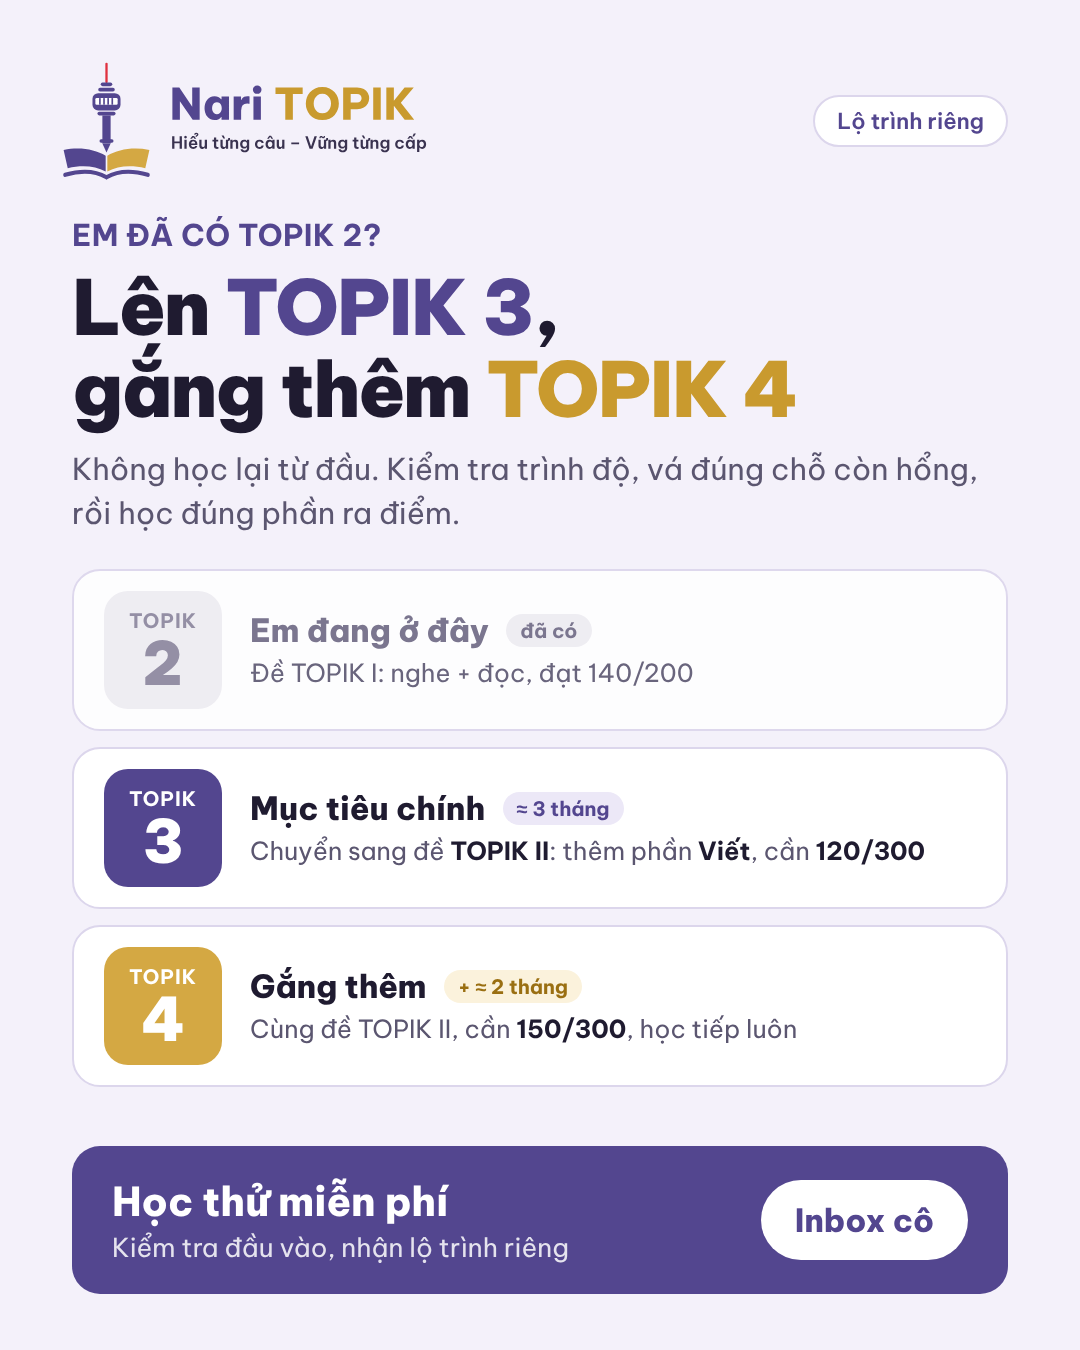
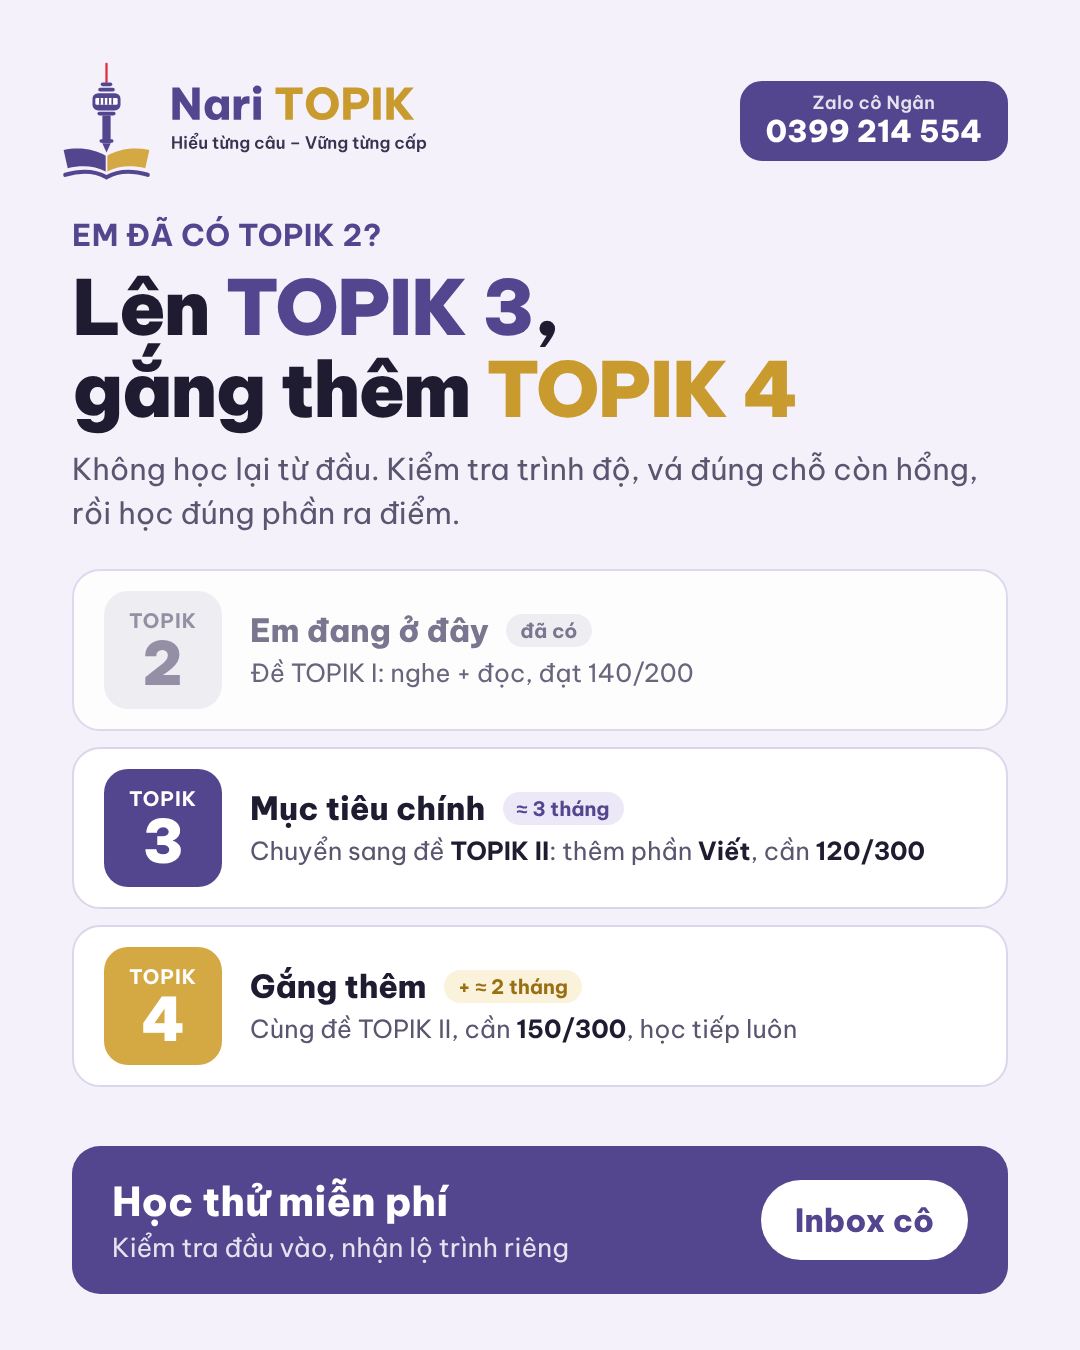
Ảnh đấu giá: thêm Zalo cô ở mọi ảnh, ảnh vuông chung để comment
Claude-Session: https://claude.ai/code/session_01A7std5QnVTsaBQGEk65z9a

Changed region(s): [[0.6722, 0.0622, 0.9472, 0.1244]]

diff --git a/quang-cao/topik2-len-3-4/0-comment.html b/quang-cao/topik2-len-3-4/0-comment.html
@@ -1,0 +1,25 @@
+<!doctype html><meta charset=utf-8><link rel=stylesheet href=base.css><style>
+html,body{height:1080px}
+body{padding:60px 72px 0}
+.logo{display:block;height:200px;margin:0 auto 0 -30px}
+h1{font-size:88px;margin-top:30px}
+.chips{display:flex;gap:14px;margin-top:34px;flex-wrap:wrap}
+.chips span{font-size:28px;font-weight:700;background:#fff;border:2px solid var(--line);border-radius:40px;padding:10px 24px;color:var(--v)}
+.chips span.g{background:var(--gs);border-color:#EED9A6;color:#8A5F0E}
+.li{margin-top:40px;display:grid;grid-template-columns:1fr 1fr;gap:26px 30px}
+.li div{display:flex;gap:14px;align-items:center;font-size:31px;font-weight:600}
+.li i{width:44px;height:44px;border-radius:50%;background:var(--vs);color:var(--v);font-style:normal;font-weight:900;display:flex;align-items:center;justify-content:center;font-size:24px;flex:none}
+.cta{bottom:60px}
+.cta .btn{font-size:36px;text-align:center;line-height:1.1}
+.cta .btn small{display:block;font-size:20px;font-weight:600;color:var(--dim)}
+</style>
+<img class=logo src="../../logo/nari-topik-ngang.svg">
+<h1>Học <span class=v>TOPIK</span> online<br>với <span class=g>cô Ngân</span></h1>
+<div class=chips><span>Sơ cấp</span><span>TOPIK 2 → 3</span><span>TOPIK 3 → 4</span><span class=g>Học thử miễn phí</span></div>
+<div class=li>
+ <div><i>✓</i>Lộ trình riêng cho em</div>
+ <div><i>✓</i>1:1 hoặc nhóm nhỏ</div>
+ <div><i>✓</i>Học Thứ 7 &amp; Chủ nhật</div>
+ <div><i>✓</i>App bài tập mỗi ngày</div>
+</div>
+<div class=cta><div><div class=t>Inbox nhận lộ trình</div><div class=s>gửi riêng cho em, không mất phí</div></div><div class=btn><small>Zalo cô Ngân</small>0399 214 554</div></div>

diff --git a/quang-cao/topik2-len-3-4/2-diem.html b/quang-cao/topik2-len-3-4/2-diem.html
@@ -18,7 +18,7 @@
 .leg{display:flex;gap:30px;font-size:23px;color:var(--dim);margin-top:22px;padding-top:18px;border-top:2px dashed var(--line)}
 .leg span{display:inline-flex;align-items:center;gap:10px}.leg i{width:30px;height:16px;border-radius:8px;display:inline-block}
 </style>
-<div class=top><img src="../../logo/nari-topik-ngang.svg"><div class=tag>Hiểu đề trước khi học</div></div>
+<div class=top><img src="../../logo/nari-topik-ngang.svg"><div class="tag zalo"><small>Zalo cô Ngân</small>0399 214 554</div></div>
 <div class=eye>TOPIK II cần bao nhiêu điểm?</div>
 <div class=big><span class="n v">120</span><span class=ar>→</span><span class="n g">150</span><span class=of>/ 300</span></div>
 <p class=lead>TOPIK 3 chỉ cần <b>40%</b>, TOPIK 4 cần <b>50%</b>. Không cần giỏi đều, cần <b>gom đủ điểm ở phần dễ</b> trước.</p>

diff --git a/quang-cao/topik2-len-3-4/6-thong-tin.html b/quang-cao/topik2-len-3-4/6-thong-tin.html
@@ -5,7 +5,7 @@
 .it .d{font-size:25px;color:var(--dim);margin-top:4px}
 .gift{margin-top:22px;background:var(--gs);border:2px solid #EED9A6;border-radius:24px;padding:22px;text-align:center;font-size:31px;font-weight:800;color:#8A5F0E}
 </style>
-<div class=top><img src="../../logo/nari-topik-ngang.svg"><div class=tag>Tiếng Hàn & TOPIK online</div></div>
+<div class=top><img src="../../logo/nari-topik-ngang.svg"><div class="tag zalo"><small>Zalo cô Ngân</small>0399 214 554</div></div>
 <div class=eye>Thông tin lớp</div>
 <h1>Học với <span class=v>cô Ngân</span></h1>
 <div class="card it"><div class=ic>👩🏫</div><div><div class=k>1:1 hoặc nhóm nhỏ</div><div class=d>online, cô kèm sát từng bạn</div></div></div>

diff --git a/quang-cao/topik2-len-3-4/1-bia.html b/quang-cao/topik2-len-3-4/1-bia.html
@@ -14,7 +14,7 @@
 .arrow{height:0;margin:-9px 0 -9px 108px;position:relative;z-index:2}
 .arrow:before{content:"";position:absolute;left:0;top:-14px;border:14px solid transparent;border-top:18px solid var(--v);}
 </style>
-<div class=top><img src="../../logo/nari-topik-ngang.svg"><div class=tag>Lộ trình riêng</div></div>
+<div class=top><img src="../../logo/nari-topik-ngang.svg"><div class="tag zalo"><small>Zalo cô Ngân</small>0399 214 554</div></div>
 <div class=eye>Em đã có TOPIK 2?</div>
 <h1>Lên <span class=v>TOPIK 3</span>,<br>gắng thêm <span class=g>TOPIK 4</span></h1>
 <p class=lead>Không học lại từ đầu. Kiểm tra trình độ, vá đúng chỗ còn hổng, rồi học đúng phần ra điểm.</p>

diff --git a/quang-cao/topik2-len-3-4/4-app.html b/quang-cao/topik2-len-3-4/4-app.html
@@ -10,7 +10,7 @@
 .ck div{display:flex;gap:18px;align-items:center;font-size:30px}
 .ck i{width:48px;height:48px;border-radius:50%;background:var(--vs);color:var(--v);font-style:normal;font-weight:900;display:flex;align-items:center;justify-content:center;font-size:26px;flex:none}
 </style>
-<div class=top><img src="../../logo/nari-topik-ngang.svg"><div class=tag>Ngoài giờ học</div></div>
+<div class=top><img src="../../logo/nari-topik-ngang.svg"><div class="tag zalo"><small>Zalo cô Ngân</small>0399 214 554</div></div>
 <div class=eye>Mỗi ngày em học gì?</div>
 <h1>15–20 phút trên<br><span class=v>app điện thoại</span></h1>
 <div class=ph>

diff --git a/quang-cao/topik2-len-3-4/3-lo-trinh.html b/quang-cao/topik2-len-3-4/3-lo-trinh.html
@@ -14,7 +14,7 @@ h1{font-size:68px}
 .tot .a{font-size:27px}.tot .b{font-size:46px;font-weight:900}
 .note{font-size:21px;color:var(--dim);margin-top:12px;text-align:center}
 </style>
-<div class=top><img src="../../logo/nari-topik-ngang.svg"><div class=tag>Lộ trình chi tiết</div></div>
+<div class=top><img src="../../logo/nari-topik-ngang.svg"><div class="tag zalo"><small>Zalo cô Ngân</small>0399 214 554</div></div>
 <h1 style="margin-top:22px">Từ TOPIK 2 lên <span class=v>3</span> → <span class=g>4</span></h1>
 <p class=lead>2 buổi/tuần (T7 + CN) · không học lại phần sơ cấp</p>
 <div class="grp">

diff --git a/quang-cao/topik2-len-3-4/5-danh-gia.html b/quang-cao/topik2-len-3-4/5-danh-gia.html
@@ -14,7 +14,7 @@ h1{font-size:68px}
 .ins{color:#1E7A4C;background:#E2F4EA;padding:0 6px;border-radius:6px;font-weight:700}
 .wr .n{font-size:22px;color:var(--dim)}
 </style>
-<div class=top><img src="../../logo/nari-topik-ngang.svg"><div class=tag>Theo dõi tiến độ</div></div>
+<div class=top><img src="../../logo/nari-topik-ngang.svg"><div class="tag zalo"><small>Zalo cô Ngân</small>0399 214 554</div></div>
 <div class=eye>Em biết rõ mình đang ở đâu</div>
 <h1>Bảng đánh giá năng lực<br><span class=v>sau mỗi lần kiểm tra</span></h1>
 <div class=ex>Ví dụ minh họa</div>

diff --git a/quang-cao/topik2-len-3-4/base.css b/quang-cao/topik2-len-3-4/base.css
@@ -16,3 +16,5 @@ h1 .v{color:var(--v)} h1 .g{color:var(--g)}
 .cta .t{font-size:40px;font-weight:800}
 .cta .s{font-size:26px;opacity:.85;margin-top:4px}
 .cta .btn{background:#fff;color:var(--v);font-weight:800;font-size:32px;border-radius:50px;padding:20px 34px;white-space:nowrap}
+.top .tag.zalo{background:var(--v);border-color:var(--v);color:#fff;font-size:30px;font-weight:800;border-radius:22px;padding:10px 24px;text-align:center;line-height:1.15}
+.top .tag.zalo small{display:block;font-size:18px;font-weight:600;opacity:.85;letter-spacing:.3px}

diff --git a/CLAUDE.md b/CLAUDE.md
@@ -83,8 +83,8 @@ Repo để công khai vì Pages miễn phí yêu cầu vậy — tuyệt đối 
 - Icon app thi thử (`thi-thu/icon/`) và logo trên các trang **chưa đổi** sang logo mới — làm khi cô nhắn.
 
 ## Ảnh quảng cáo / đấu giá lớp (`quang-cao/`)
-- Mỗi bộ một thư mục, ảnh 1080×1350 viết bằng HTML (`base.css` chung, logo `logo/nari-topik-ngang.svg`), chụp bằng Playwright ra PNG cùng tên.
-- `topik2-len-3-4/`: cho bạn đã có TOPIK 2 (đề TOPIK I) muốn lên 3, gắng 4: bìa, điểm 120→150, lộ trình 26 + 16 buổi, app, đánh giá, thông tin lớp.
+- Mỗi bộ một thư mục, ảnh 1080×1350 (góc phải trên luôn có Zalo cô 0399 214 554) viết bằng HTML (`base.css` chung, logo `logo/nari-topik-ngang.svg`), chụp bằng Playwright ra PNG cùng tên.
+- `topik2-len-3-4/`: cho bạn đã có TOPIK 2 (đề TOPIK I) muốn lên 3, gắng 4: `0-comment` (1080×1080, ảnh chung để comment, không lộ cách dạy), bìa, điểm 120→150, lộ trình 26 + 16 buổi, app, đánh giá, thông tin lớp.
   Ảnh app dùng `hoc-cung-co/img/` (trang vẫn mang tên cũ “Hàn Ngữ Nari” cho tới khi đổi logo trên site).
 
 ## Về cô (`ve-co/`)
